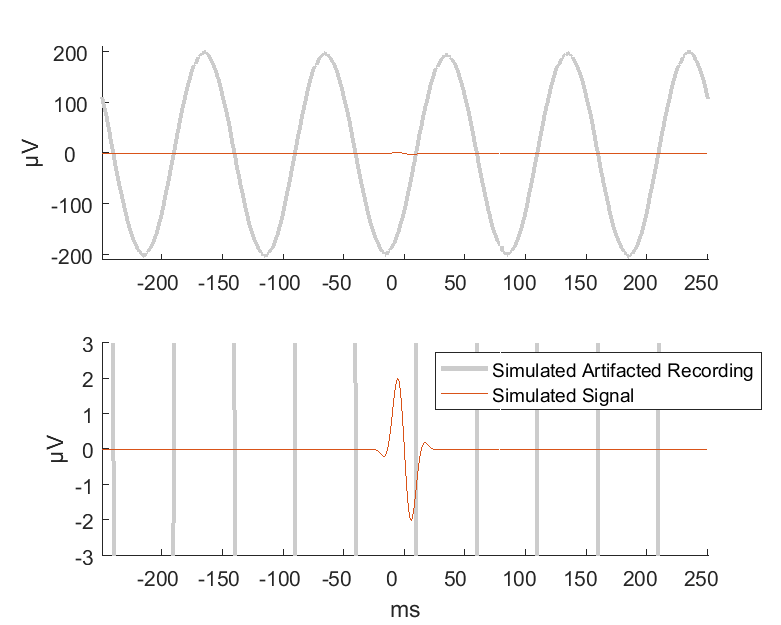
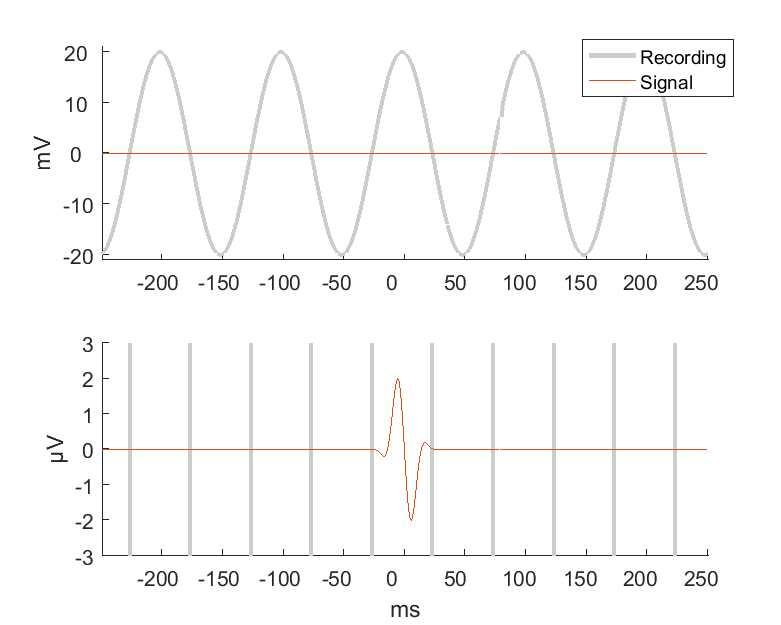
Increase Amplitude for the generic signal

diff --git a/src/+generate/generic.m b/src/+generate/generic.m
@@ -10,9 +10,9 @@ setup.eoPhase           = 'random';
 
 % tacs parameters
 setup.tacsFreq          = 10;
-setup.tacsMagnitude     = 2000;
+setup.tacsMagnitude     = 20000;
 setup.tacsSaturate      = Inf;
-setup.tacsDistort       = 0.01;
+setup.tacsDistort       = 0.001;
 setup.tacsPhase         = 'random';
 
 % level of random fluctuation of the artifcat amplitude.
